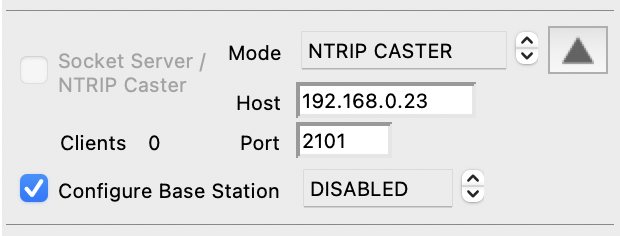
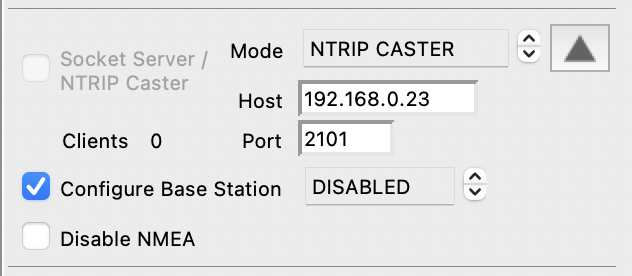
add disable NMEA checkbox

diff --git a/src/pygpsclient/serverconfig_frame.py b/src/pygpsclient/serverconfig_frame.py
@@ -129,6 +129,7 @@ class ServerConfigFrame(Frame):
         self._fixedlat = DoubleVar()
         self._fixedlon = DoubleVar()
         self._fixedalt = DoubleVar()
+        self._disable_nmea = IntVar()
         self._img_expand = ImageTk.PhotoImage(Image.open(ICON_EXPAND))
         self._img_contract = ImageTk.PhotoImage(Image.open(ICON_CONTRACT))
 
@@ -223,6 +224,11 @@ class ServerConfigFrame(Frame):
             self._frm_advanced,
             text=LBLDURATIONS,
         )
+        self._chk_disablenmea = Checkbutton(
+            self._frm_advanced,
+            text="Disable NMEA",
+            variable=self._disable_nmea,
+        )
         self._spn_duration = Spinbox(
             self._frm_advanced,
             values=DURATIONS,
@@ -312,6 +318,7 @@ class ServerConfigFrame(Frame):
 
         self._base_mode.set(BASE_SVIN)
         self._pos_mode.set(POS_LLH)
+        self._disable_nmea.set(1)
         self.clients = 0
 
     def set_status(self, status: int):
@@ -368,6 +375,7 @@ class ServerConfigFrame(Frame):
             self._spn_acclimit,
             self._lbl_duration,
             self._spn_duration,
+            self._chk_disablenmea,
             self._spn_posmode,
             self._lbl_fixedlat,
             self._ent_fixedlat,
@@ -441,6 +449,7 @@ class ServerConfigFrame(Frame):
             self._spn_acclimit.grid(column=1, row=1, padx=2, pady=1, sticky=W)
             self._lbl_duration.grid(column=2, row=1, padx=2, pady=1, sticky=E)
             self._spn_duration.grid(column=3, row=1, padx=2, pady=1, sticky=W)
+            self._chk_disablenmea.grid(column=0, row=2, padx=2, pady=1, sticky=W)
             self._spn_posmode.grid_forget()
             self._lbl_fixedlat.grid_forget()
             self._ent_fixedlat.grid_forget()
@@ -451,6 +460,7 @@ class ServerConfigFrame(Frame):
         elif self._base_mode.get() == BASE_FIXED:
             self._lbl_acclimit.grid(column=0, row=1, padx=2, pady=1, sticky=E)
             self._spn_acclimit.grid(column=1, row=1, padx=2, pady=1, sticky=W)
+            self._chk_disablenmea.grid(column=2, row=1, padx=2, pady=1, sticky=W)
             self._spn_posmode.grid(column=0, row=2, rowspan=3, padx=2, pady=1, sticky=E)
             self._lbl_fixedlat.grid(column=1, row=2, padx=2, pady=1, sticky=E)
             self._ent_fixedlat.grid(
@@ -468,6 +478,7 @@ class ServerConfigFrame(Frame):
             self._spn_duration.grid_forget()
             self._set_coords(self._pos_mode.get())
         else:  # Disabled
+            self._chk_disablenmea.grid(column=0, row=1, padx=2, pady=1, sticky=W)
             self._lbl_acclimit.grid_forget()
             self._spn_acclimit.grid_forget()
             self._spn_posmode.grid_forget()
@@ -556,6 +567,8 @@ class ServerConfigFrame(Frame):
         rate = 0 if self._base_mode.get() == BASE_DISABLED else 1
         for port in ("USB", "UART1"):
             msg = self._config_msg_rates(rate, port)
+            self.__app.gnss_outqueue.put(msg.serialize())
+            msg = self._config_nmea(self._disable_nmea.get(), port)
             self.__app.gnss_outqueue.put(msg.serialize())
 
     def _config_msg_rates(self, rate: int, port_type: str) -> UBXMessage:
@@ -666,5 +679,24 @@ class ServerConfigFrame(Frame):
                 ("CFG_TMODE_ECEF_Z", z_sp),
                 ("CFG_TMODE_ECEF_Z_HP", z_hp),
             ]
+
+        return UBXMessage.config_set(layers, transaction, cfg_data)
+
+    def _config_nmea(self, state: int, port_type: str) -> UBXMessage:
+        """
+        Disable NMEA messages at port level and use minimum UBX instead.
+
+        :param int state: 1 = disable NMEA, 0 = enable NMEA
+        :param str port_type: port that rcvr is connected on
+        """
+
+        nmea_state = 0 if state else 1
+        layers = 1
+        transaction = 0
+        cfg_data = []
+        cfg_data.append((f"CFG_{port_type}OUTPROT_NMEA", nmea_state))
+        cfg_data.append((f"CFG_{port_type}OUTPROT_UBX", 1))
+        cfg_data.append((f"CFG_MSGOUT_UBX_NAV_PVT_{port_type}", state))
+        cfg_data.append((f"CFG_MSGOUT_UBX_NAV_SAT_{port_type}", state * 4))
 
         return UBXMessage.config_set(layers, transaction, cfg_data)

diff --git a/README.md b/README.md
@@ -254,10 +254,12 @@ A label on the settings panel indicates the number of connected clients, and the
 
 If NTRIP CASTER mode is selected, an additional expandable panel is made available to allow the user to configure a connected RTK-compatible u-blox receiver (e.g. ZED-F9P) to operate in either `FIXED` or `SURVEY-IN` Base Station mode (*NB: parameters can only be amended while the server/caster is stopped*). If 'Configure Base Station' is checked, the selected configuration will be applied to the connected receiver once 'NTRIP Caster' mode is activated. 
 
+NMEA messages can be suppressed in NTRIP Caster mode by checking 'Disable NMEA'. A minimum set of UBX messages will be output in their place.
+
 | Configuration Settings | Base Station Mode    |
 |------------------------------------------------------|---------------------------------------------------------|
-| ![basestation config](/images/basestation_fixed.png) | **FIXED**. In this mode, the known base station coordinates (*Antenna Reference Point or ARP*) are specified in either LLH or ECEF (X,Y,Z) format. The coordinates are pre-populated with the receiver's current navigation solution (if available), but these can be overridden with precisely surveyed values. If the coordinates are accepted, the Fix status will change to `TIME ONLY` and the receiver will start outputting RTCM `1005` (*ARP location*) messages.|
-| ![basestation config](/images/basestation_svin.png)  | **SURVEY-IN**. In this mode, the base station coordinates are derived from the receiver's current navigation solution, provided the prescribed level of accuracy is met within the specified survey duration. If the survey is successful, the UBX NAV-SVIN monitoring message will indicate `valid=1, active=0`, the Fix status will change to `TIME ONLY` and the receiver will start outputting RTCM `1005` (*ARP location*) messages. 
+| ![basestation config](/images/basestation_fixed.png) | **FIXED**. In this mode, the known base station coordinates (*Antenna Reference Point or ARP*) are specified in either LLH or ECEF (X,Y,Z) format. The coordinates are pre-populated with the receiver's current navigation solution (if available), but these can be overridden with precisely surveyed values. If the coordinates are accepted, the UBX Fix status will change to `TIME ONLY` and the receiver will start outputting RTCM `1005` (*ARP location*) messages.|
+| ![basestation config](/images/basestation_svin.png)  | **SURVEY-IN**. In this mode, the base station coordinates are derived from the receiver's current navigation solution, provided the prescribed level of accuracy is met within the specified survey duration. If the survey is successful, the UBX NAV-SVIN monitoring message will indicate `valid=1, active=0`, the UBX Fix status will change to `TIME ONLY` and the receiver will start outputting RTCM `1005` (*ARP location*) messages. 
 | ![basestation config](/images/basestation_off.png)  | **DISABLED**. Disable base station operation.
 
 ---
